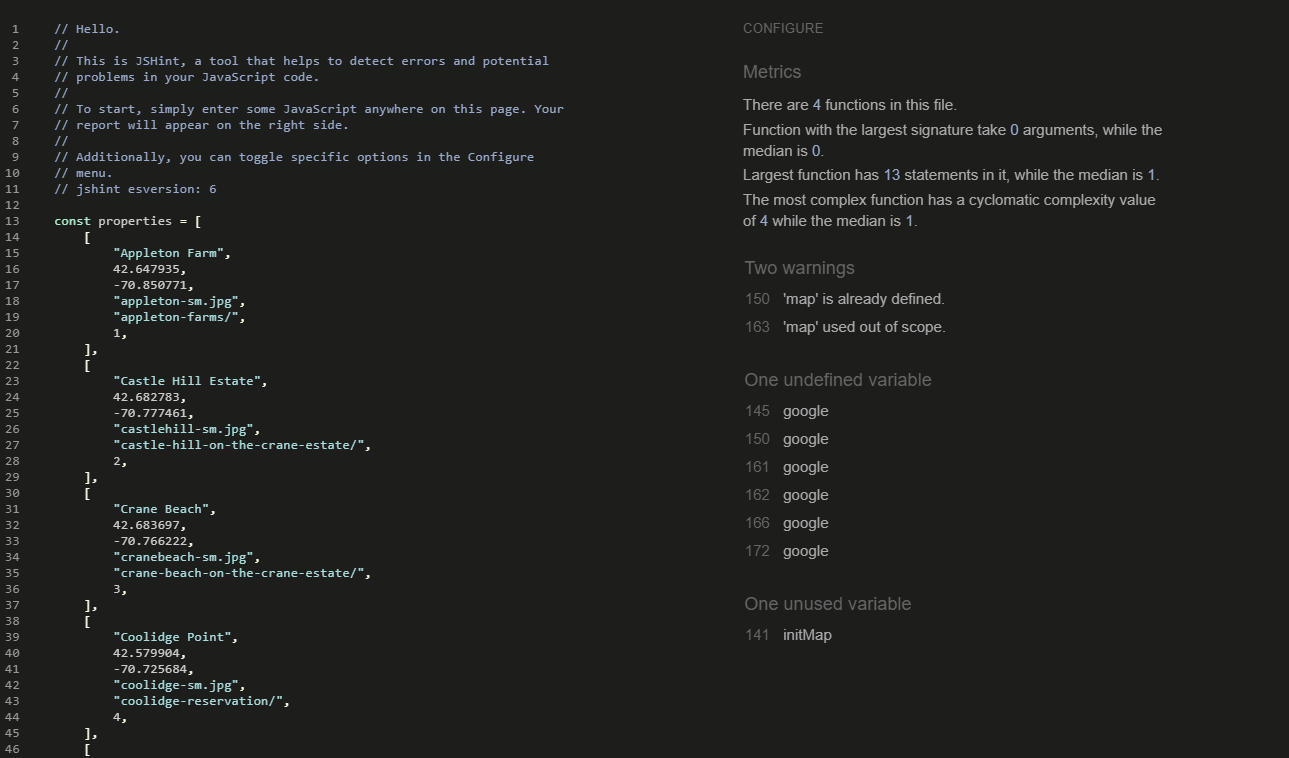
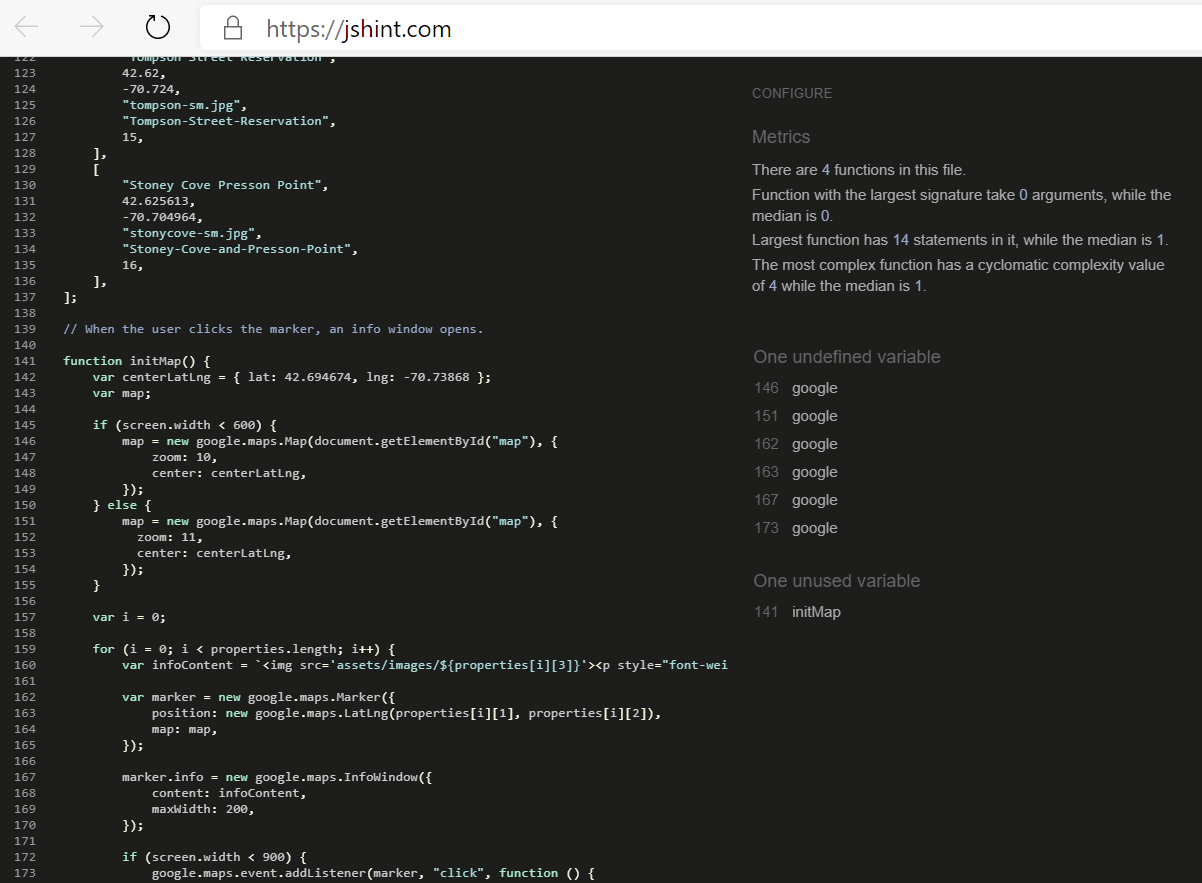
fixed jshint warning by moving map declaration out of if statement. Added the fix to readme.md.

diff --git a/assets/js/maps.js b/assets/js/maps.js
@@ -130,18 +130,19 @@ const properties = [
 
 function initMap() {
     var centerLatLng = { lat: 42.694674, lng: -70.73868 };
+    var map;
 
     if (screen.width < 600) {
-        var map = new google.maps.Map(document.getElementById("map"), {
+        map = new google.maps.Map(document.getElementById("map"), {
             zoom: 10,
             center: centerLatLng,
         });
     } else {
-        var map = new google.maps.Map(document.getElementById("map"), {
+        map = new google.maps.Map(document.getElementById("map"), {
           zoom: 11,
           center: centerLatLng,
-    });
-}
+        });
+    }
 
     var i = 0;
 

diff --git a/README.md b/README.md
@@ -154,7 +154,8 @@ Compatibility of the site was tested on Google Chrome, Microsoft Edge and Firefo
 * Mid-project code validation: Errors of stray start tag were found. Errors were corrected by moving script links inside the body.
 * Final-project code validation: Errors of the element of "Button" must not appear as descendent of the "a" element were found and corrected by rewrite the code.
 * Error of mt-2 is not a margin value was found and corrected by replacing mt-2 with 2px.
-
+* Fixed the warnings of "maps is already defined" and "map used out of scope" by moving map declaration outside of if statement.
+ 
 ## Deployment
 The website was deployed to GitHub pages. Link to the site is [here](https://github.com/suping106/MS2-NorthShore-Reservations).
 
